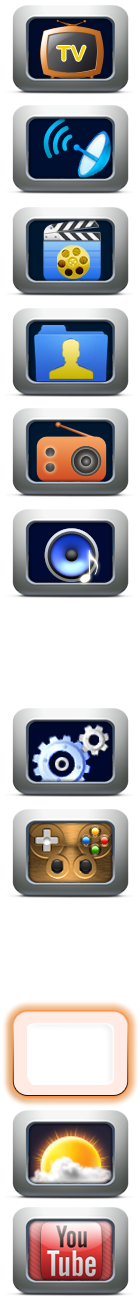
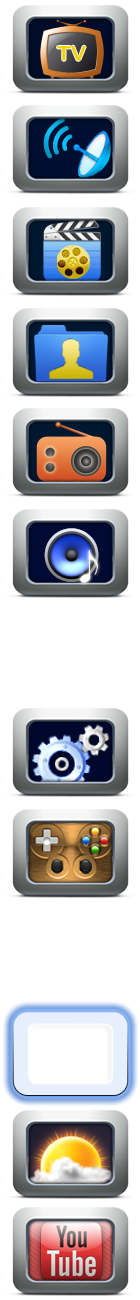
Commiting changes

Changed region(s): [[0.0286, 0.7692, 1.0, 0.8615]]

diff --git a/app/css/mosaic.css b/app/css/mosaic.css
@@ -70,19 +70,18 @@ html.browser .tui-mosaic.list-container {
 }
 /*------------- end-Ratin-bar -------------------*/
 .tui-mosaic .imgcont {
-	-webkit-transition-property: background-color;
-	-webkit-transition-duration: 1.2s;
-	-moz-transition-property: background-color;
-	-moz-transition-duration: 1.2s;
-	background-color: gray;
-	/* border: 1px solid gray; */
-	-moz-box-shadow: inset 0 0 8px #d9d9d9;
-	-webkit-box-shadow: inset 0 0 8px #D9D9D9;
-	box-shadow: inset 0 0 8px #d9d9d9;
-	-moz-border-radius: 3px;
+	-webkit-transition: background-color 1.2s;
 	-webkit-border-radius: 3px;
 	float: left;
 	margin-left: 5px;
+	background: -webkit-gradient(linear, left top, right top, color-stop(0%,rgba(51,78,114,0.9)), color-stop(4%,rgba(51,78,114,0)), color-stop(96%,rgba(51,78,114,0)), color-stop(100%,rgba(51,78,114,0.9)));
+}
+.tui-mosaic .imgcontin {
+	height: 100px;
+	width: 140px;
+	border-radius: 3px;
+	position:absolute;
+	background: -webkit-gradient(linear, left top, left bottom, color-stop(0%,rgba(51,78,114,0.9)), color-stop(4%,rgba(51,78,114,0)), color-stop(96%,rgba(51,78,114,0)), color-stop(100%,rgba(51,78,114,0.9)));
 }
 .tui-mosaic .item.regular   img {
     /*width: 130px;*/
@@ -136,17 +135,17 @@ html.browser .tui-mosaic.list-container {
     top: 5px;
 }
 .tui-mosaic .item.current .imgcont {
-	background-color: rgba(227, 118, 48, 1);
-	-webkit-transition-property: background-color;
-	-webkit-transition-duration: 0.3s;
-	background-image: -o-linear-gradient(bottom, rgb(214,114,26) 10%, rgb(158,82,24) 19%, rgb(250,108,13) 87%);
-	background-image: -moz-linear-gradient(bottom, rgb(214,114,26) 10%, rgb(158,82,24) 19%, rgb(250,108,13) 87%);
-	background-image: -webkit-linear-gradient(bottom, rgb(214,114,26) 10%, rgb(158,82,24) 19%, rgb(250,108,13) 87%);
-	background-image: -ms-linear-gradient(bottom, rgb(214,114,26) 10%, rgb(158,82,24) 19%, rgb(250,108,13) 87%);
-	background-image: -webkit-gradient( linear, left bottom, left top, color-stop(0.07, rgb(222,101,7)), color-stop(0.67, rgb(158,82,24)) );
+background: -webkit-gradient(linear, left top, right top, color-stop(0%,rgba(198,222,255,0.9)), color-stop(1%,rgba(104,151,221,0.75)), color-stop(3%,rgba(30,105,222,0.45)), color-stop(6%,rgba(30,105,222,0)), color-stop(94%,rgba(30,105,222,0)), color-stop(97%,rgba(30,105,222,0.45)), color-stop(99%,rgba(104,151,221,0.75)), color-stop(100%,rgba(198,222,255,0.9)));
+}
+.tui-mosaic .item.current .imgcontin {
+height: 100px;
+width: 140px;
+background: -webkit-gradient(linear, left top, left bottom, color-stop(0%,rgba(198,222,255,0.9)), color-stop(1%,rgba(104,151,221,0.75)), color-stop(3%,rgba(30,105,222,0.45)), color-stop(6%,rgba(30,105,222,0)), color-stop(94%,rgba(30,105,222,0)), color-stop(97%,rgba(30,105,222,0.45)), color-stop(99%,rgba(104,151,221,0.75)), color-stop(100%,rgba(198,222,255,0.9)));
+border-radius: 3px;
+position:absolute;
 }
 .tui-mosaic .item.current span {
-    color: #ffc4c4;
+    color: rgba(153, 206, 255, 1);
 }
 .tui-mosaic .icon.locked {
 	background-image: url('imgs/icon_lock.png');

diff --git a/app/css/list.css b/app/css/list.css
@@ -4,7 +4,7 @@
 	position: absolute;
 }
 .tui-list .item {
-	margin: 0.7em auto 0 auto;
+	margin: 0.3em auto 0 auto;
 	width: 94%;
 	height: 3.4em;
 	text-align: left;
@@ -14,10 +14,10 @@
 	-moz-border-radius: 0.3em;
 	-webkit-border-radius: 0.3em;
 	-ms-border-radius: 0.3em;
-	border: 2px solid gray;	
+	border: 2px solid #3E5170;
 	color: white;
 	position: relative;
-	
+	/*
 	background-image: linear-gradient(bottom, rgb(74,80,92) 4%, rgb(39,44,52) 49%, rgb(74,80,92) 93%);
 	background-image: -o-linear-gradient(bottom, rgb(74,80,92) 4%, rgb(39,44,52) 49%, rgb(74,80,92) 93%);
 	background-image: -moz-linear-gradient(bottom, rgb(74,80,92) 4%, rgb(39,44,52) 49%, rgb(74,80,92) 93%);
@@ -31,17 +31,20 @@
 		color-stop(0.04, rgb(74,80,92)),
 		color-stop(0.49, rgb(39,44,52)),
 		color-stop(0.93, rgb(74,80,92))
-	);	
+	);	*/
 }
 .tui-list.list-container .current {
-	background-color: gray;
+	/*background-color: gray;
 	background-image: none;
 	border: 2px solid #b74e02;
 	
     box-shadow:inset 0 0 10px #000000;
 	-moz-box-shadow:inset 0 0 10px #000000;
    	-webkit-box-shadow:inset 0 0 10px #000000;
-	-ms-box-shadow:inset 0 0 10px #000000;
+	-ms-box-shadow:inset 0 0 10px #000000;*/
+	border: 2px solid #1E69D1;
+	background: -webkit-gradient(linear, left top, left bottom, color-stop(2%,rgba(198, 222, 255, 0.9)), color-stop(4%,rgba(104, 151, 221, 0.75)), color-stop(5%,rgba(30, 105, 222, 0.45)), color-stop(50%,rgba(30, 105, 222, 0)), color-stop(96%,rgba(30, 105, 222, 0)), color-stop(96%,rgba(30, 105, 222, 0.45)), color-stop(98%,rgba(104, 151, 221, 0.75)), color-stop(100%,rgba(198, 222, 255, 0.9)));
+
 }
 .tui-list.list-container .current .number_id {
 	color: #d08b05;
@@ -69,19 +72,21 @@
 float: left;
 height: 43px;
 width: 43px;
+/*
 overflow-x: hidden;
 overflow-y: hidden;
+*/
 text-align: right;
 }
 .tui-list .rightCont-folder {
 	float: right;
-	width: 39px;
-	height: 40px;
+	width: 57px;
+	height: 38px;
 	overflow-x: hidden;
 	overflow-y: hidden;
 	background: url(app/imgs/folder.png) no-repeat;
-	background-size: cover;
-	margin: 3px 3.8% 0px 0%;
+	background-size: contain;
+	margin: 4px 4px 0 0;
 }
 .tui-list .leftCont .number_id {
 	color: #b4b3ae;
@@ -131,14 +136,14 @@ text-align: right;
 	margin-right: 20px;
 }
 .tui-list .channel-settings-icons {
-	left: 2px;
+	left: 11px;
     list-style-type: none;
     position: absolute;
     bottom: 2px;
 }
 
 .tui-list.list-container .icon {
-	background-color: #596876;
+	/*background-color: #596876;*/
     background-position: center center;
     background-repeat: no-repeat;
     height: 20px;

diff --git a/app/tpl/mosaiclist.js b/app/tpl/mosaiclist.js
@@ -18,6 +18,8 @@ buf.push('>');
 buf.push('<div');
 buf.push(attrs({ "class": ('imgcont') }));
 buf.push('><div');
+buf.push(attrs({ "class": ('imgcontin') }));
+buf.push('></div><div');
 buf.push(attrs({ "class": ('default_icon') + ' ' + ('screen_default_icon_size') }));
 buf.push('></div></div>');
 }
@@ -25,7 +27,9 @@ buf.push('></div></div>');
 {
 buf.push('<div');
 buf.push(attrs({ "class": ('imgcont') }));
-buf.push('><img');
+buf.push('><div');
+buf.push(attrs({ "class": ('imgcontin') }));
+buf.push('></div><img');
 buf.push(attrs({ 'src':(things[i].thumbnail) }));
 buf.push('/></div>');
 }

diff --git a/app/tpl/partials.js b/app/tpl/partials.js
@@ -20,6 +20,8 @@ buf.push('>');
 buf.push('<div');
 buf.push(attrs({ "class": ('imgcont') }));
 buf.push('><div');
+buf.push(attrs({ "class": ('imgcontin') }));
+buf.push('></div><div');
 buf.push(attrs({ "class": ('default_icon') + ' ' + ('screen_default_icon_size') }));
 buf.push('></div></div>');
 }
@@ -27,7 +29,9 @@ buf.push('></div></div>');
 {
 buf.push('<div');
 buf.push(attrs({ "class": ('imgcont') }));
-buf.push('><img');
+buf.push('><div');
+buf.push(attrs({ "class": ('imgcontin') }));
+buf.push('></div><img');
 buf.push(attrs({ 'src':(data[i].thumbnail) }));
 buf.push('/></div>');
 }

diff --git a/app/css/basic-reset.css b/app/css/basic-reset.css
@@ -178,7 +178,9 @@ scrollbar[orient="horizontal"] {
 	position: fixed;
 	height: 60px;
 	width: 100%;
-	background-color: rgba(255,0,0,0.3);
+	/*background-color: rgba(44, 90, 165, 0.84);*/
+	background: -webkit-gradient(linear, left top, left bottom, color-stop(0%,rgba(102, 142, 221, 0.8)), color-stop(46%,rgba(0, 100, 184, 0.8)), color-stop(88%,rgba(0, 50, 127, 0.8)), color-stop(100%,rgba(0, 73, 201, 0.6)));
+	
 	-webkit-transition-property: top, bottom;
 	-webkit-transition-duration: 1s;
 	z-index: 10000;

diff --git a/app/tpl/youtube.js b/app/tpl/youtube.js
@@ -15,6 +15,8 @@ buf.push(attrs({ 'data-sequence':(i), "class": ('item '+ (alterClass ? 'larger':
 buf.push('><div');
 buf.push(attrs({ "class": ('imgcont') }));
 buf.push('><div');
+buf.push(attrs({ "class": ('imgcontin') }));
+buf.push('></div><div');
 buf.push(attrs({ "class": ('video-bar') }));
 buf.push('><div');
 buf.push(attrs({ "class": ('rating_bar') }));
